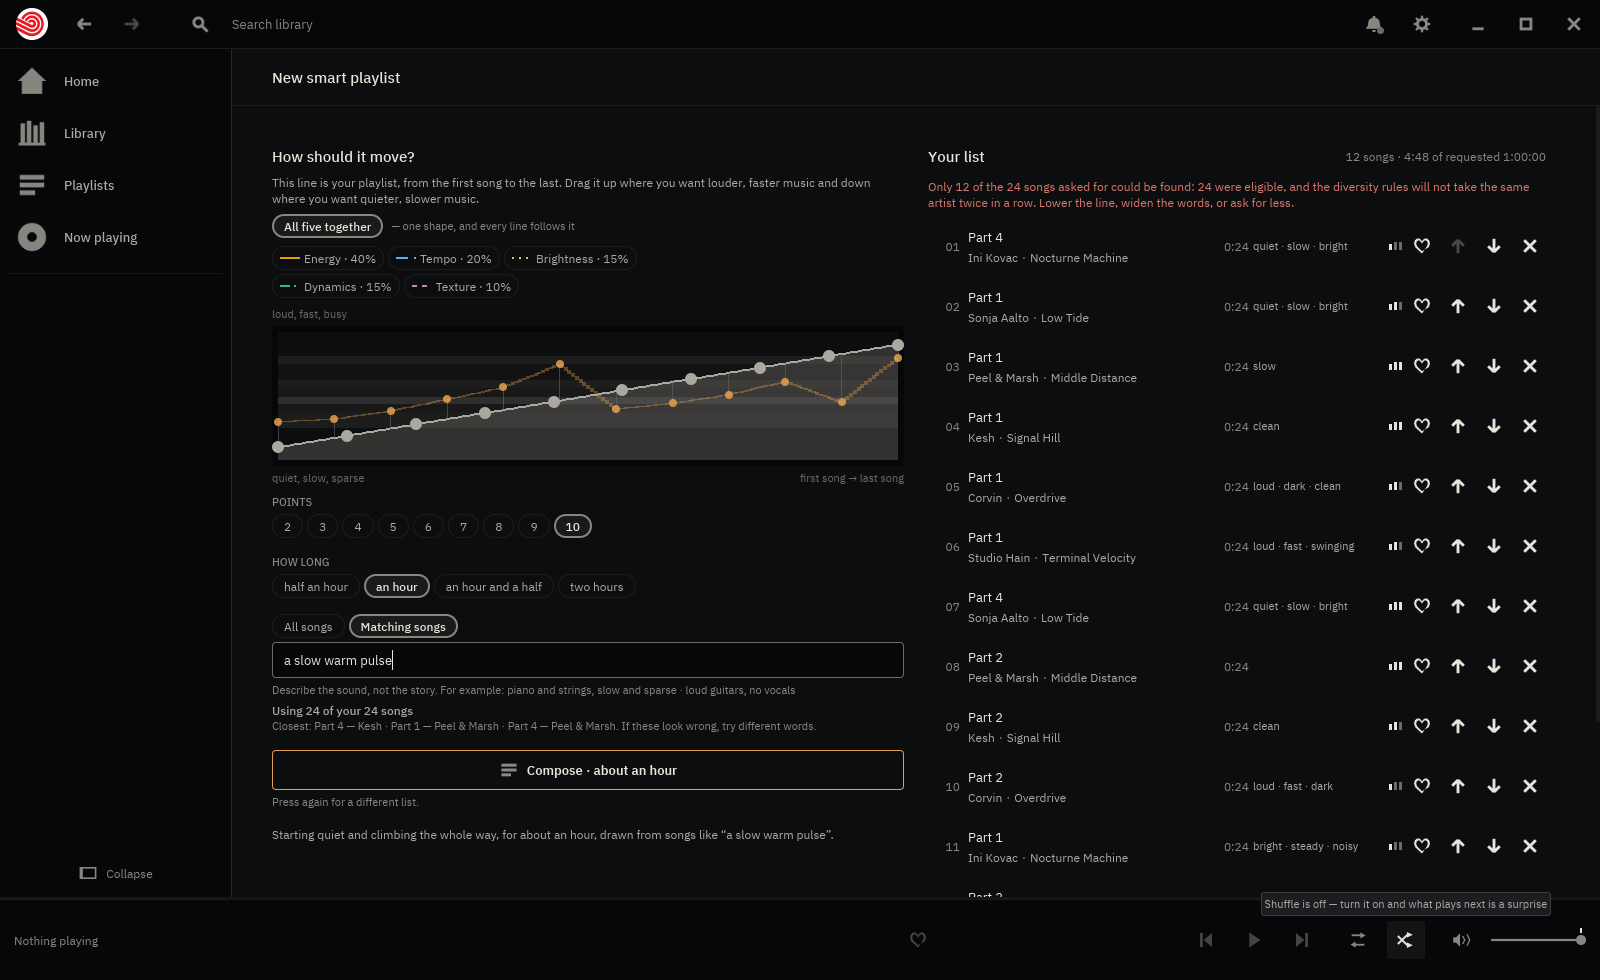
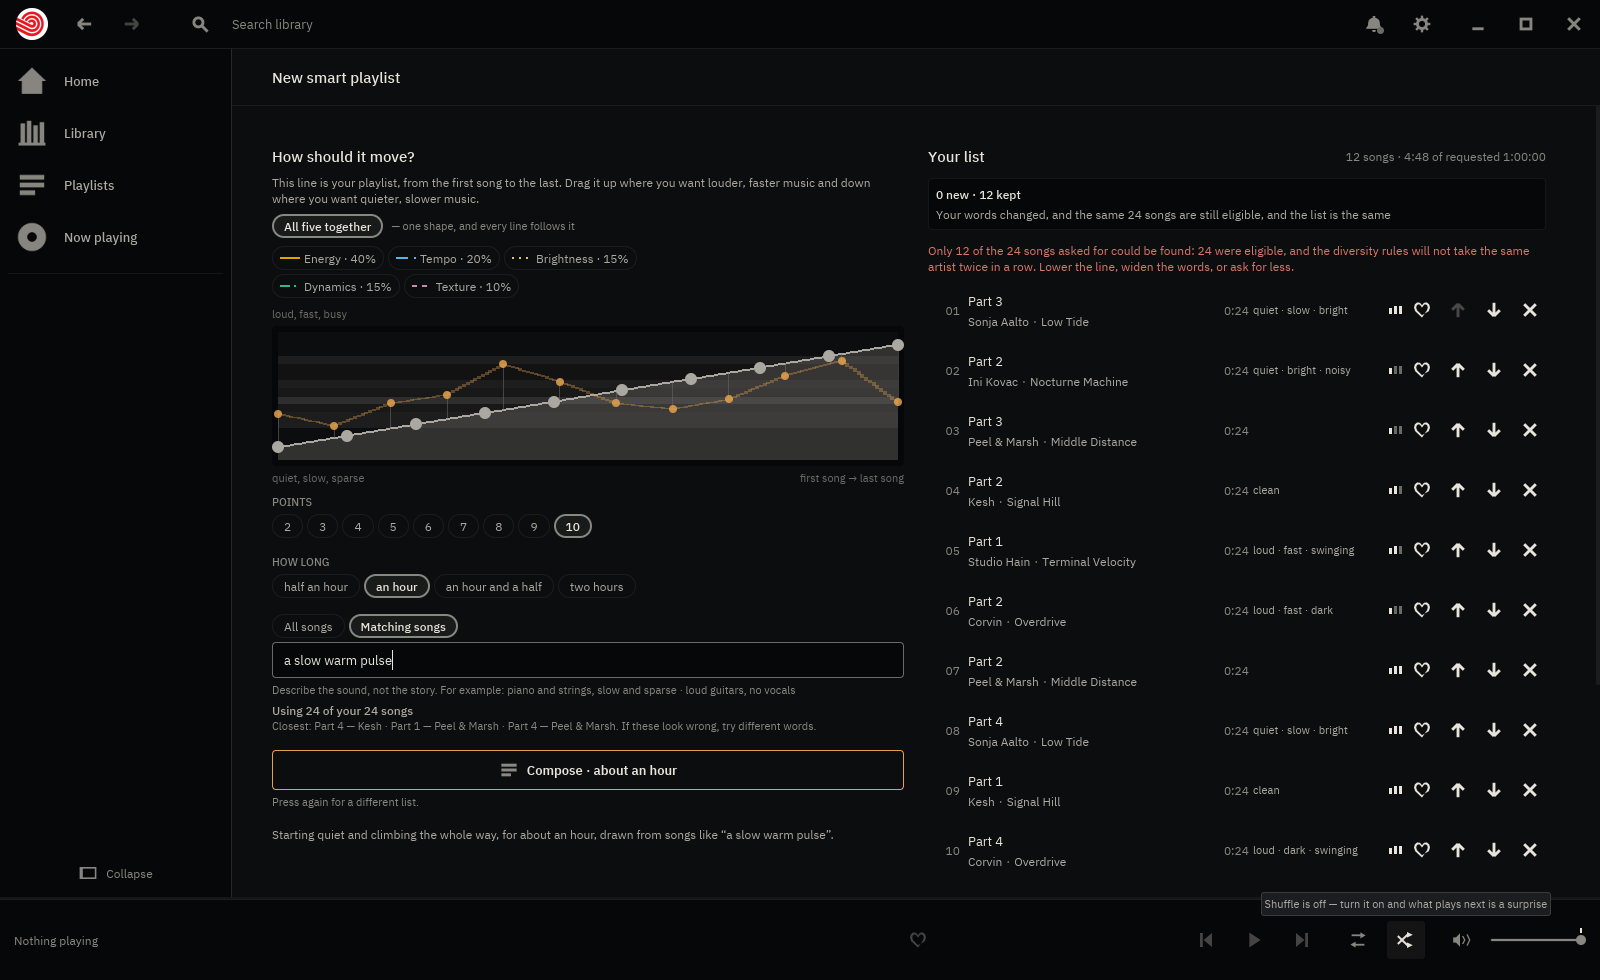
Compose refused the request the page defaults to
"Seems to not calculate a playlist until I change the playlist length option."

The arm returned early on an empty description. That was right while the words
were the request; it became a press that silently does nothing the moment
design note 25 made them optional, and unmissable once `All songs` shipped as
the standing choice — the default page had no words in it, so the one press
did nothing while every other control still recomposed.

The result pane has been promising the opposite in writing throughout: "the
shape on its own is a perfectly good request. Compose, and the songs appear
here."

Pinned beside the cold-index regression it rhymes with, in the same test on
the same arm, and the capture now presses Compose with the description empty
so the receipts would have caught it.

Claude-Session: https://claude.ai/code/session_01Uy6gBVY9behWR1G39qyih9

diff --git a/crates/baz/src/app.rs b/crates/baz/src/app.rs
@@ -3984,7 +3984,16 @@ impl App {
                 if !self.playlists.available() {
                     return Some(Task::none());
                 }
-                if state.vibe.prompt.trim().is_empty() || state.vibe.preparing {
+                // **A shape on its own is a request.** This required a
+                // non-empty description, which was right while the words
+                // *were* the request and became a press that silently did
+                // nothing the moment design note 25 made them optional — and
+                // then the default, once `All songs` shipped as the standing
+                // choice. The result pane has promised the opposite in
+                // writing the whole time: *the shape on its own is a
+                // perfectly good request. Compose, and the songs appear
+                // here.*
+                if state.vibe.preparing {
                     return Some(Task::none());
                 }
                 state.vibe.begin_request();
@@ -12700,6 +12709,16 @@ mod tests {
             drawn.contains("state.vibe.start_preparing()")
                 && drawn.contains("crate::vibe::prepare"),
             "the compose arm no longer reads the library on a cold index"
+        );
+        // **And it never refuses a request that has no words in it.** The
+        // line is the request since design note 25 and `All songs` is the
+        // standing choice, so a guard on an empty prompt is a press that does
+        // nothing on the page's own default — which is exactly how it was
+        // found: *"seems to not calculate a playlist until I change the
+        // playlist length option."*
+        assert!(
+            !drawn.contains("prompt.trim().is_empty()"),
+            "Compose is refusing a shape-only request again"
         );
     }
 

diff --git a/CHANGELOG.md b/CHANGELOG.md
@@ -119,6 +119,15 @@ Every release is built from a tag by CI, gated on the full test suite — see
   changed and why: *your words narrowed what is eligible, from 340 to 291 —
   changed 6 of 18*.
 
+### Fixed
+
+- **Compose works with the description left empty.** It refused a request that
+  had no words in it — which was right while the words *were* the request, and
+  became a button that silently did nothing once the line took over and **All
+  songs** became the standing choice. The result pane had been promising the
+  opposite in writing the whole time: *the shape on its own is a perfectly
+  good request.*
+
 ### Added
 
 - **A live count under the description**, with the three closest songs beneath
